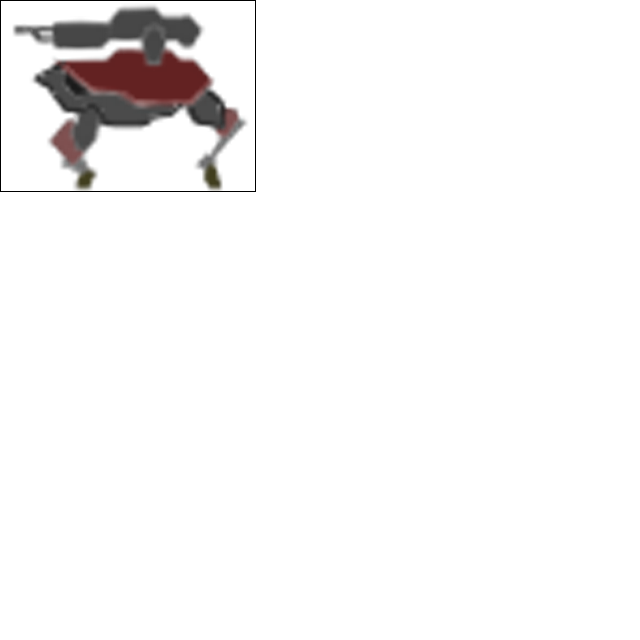
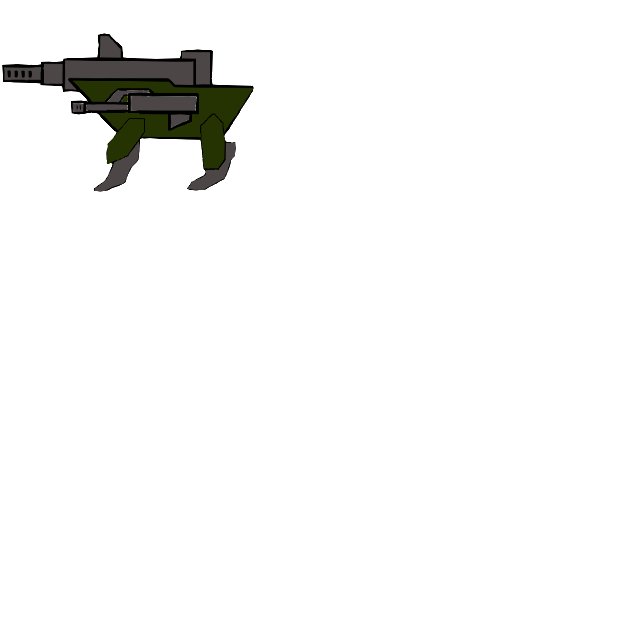
bossグラフィック追加

Changed region(s): [[0.0, 0.0, 0.4062, 0.3125]]

diff --git a/BDゲーム/BDゲーム/SceneStage1.cpp b/BDゲーム/BDゲーム/SceneStage1.cpp
@@ -136,6 +136,8 @@ void CSceneStage1::InitScene()
 	Draw::LoadImageW(L"BackGround3.png", 13, TEX_SIZE_512);
 	Draw::LoadImageW(L"Boss1.png", 14, TEX_SIZE_512);
 	Draw::LoadImageW(L"Shop.png", 15, TEX_SIZE_512);
+	Draw::LoadImageW(L"Boss2.png", 16, TEX_SIZE_512);
+
 
 
 
